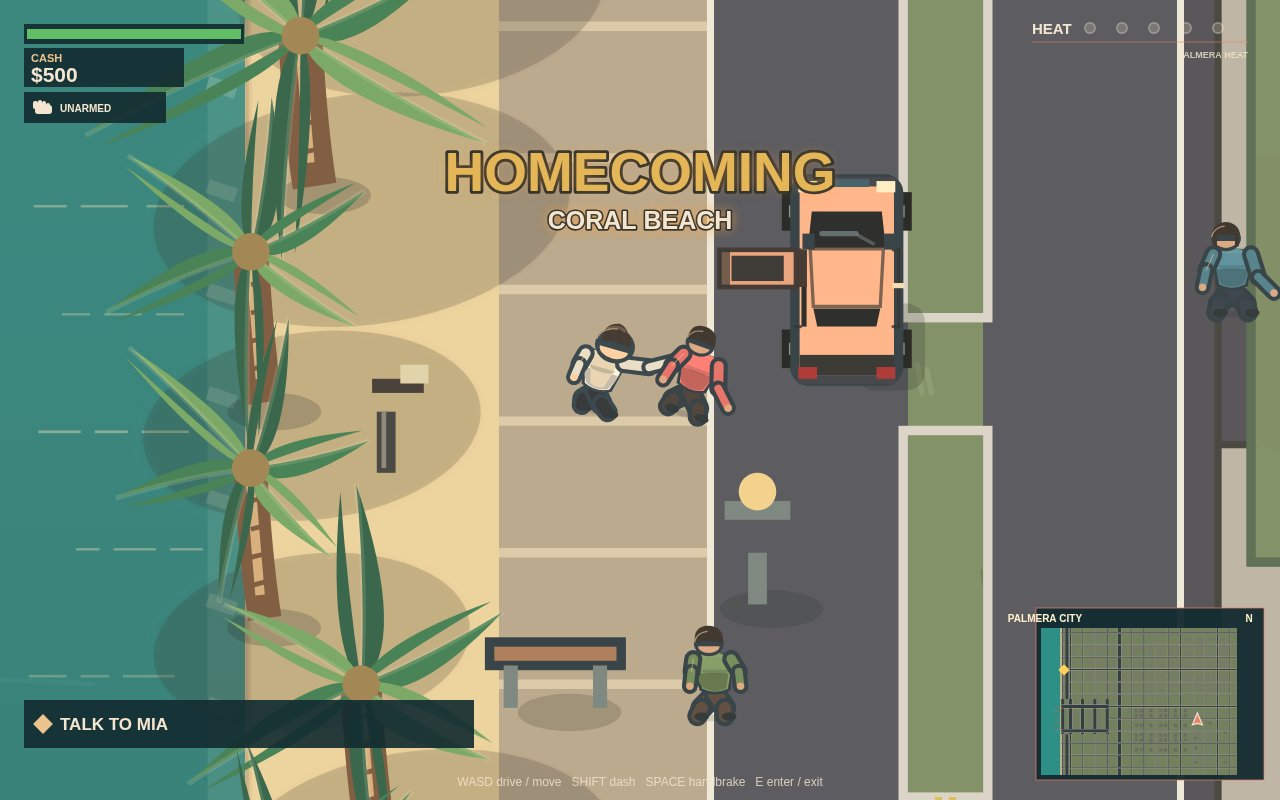
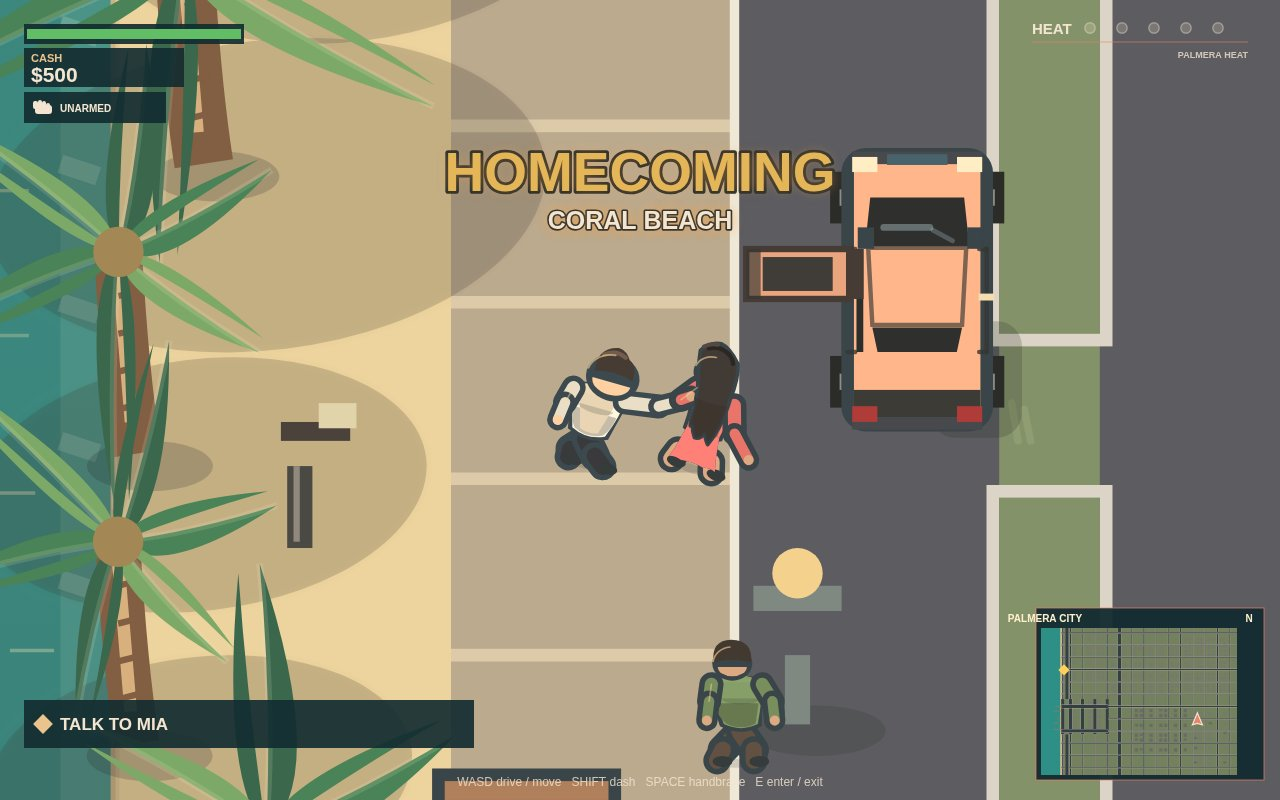
Rounds 144-150: homecoming zoom staging adopted; Mia redesigned (long hair, fem figure, dress, reaction pose, Danny-side trim); clone-leak fix; npc2 in frame; official screenshots updated

diff --git a/game/src/figures.js b/game/src/figures.js
@@ -17,22 +17,24 @@ export function drawFigure(c,o={}){
  const transform=p=>figureV2&&!hero?{x:p.x*bodyWidth,y:-2.2+(p.y+2.2)*bodyHeight}:p;
  const shoulder=(joints?.shoulder||shoulders).map(p=>transform(hero?{x:p.x*1.08,y:p.y}:p)),headPoint=transform(joints?.head||head),hipPoint=transform(joints?.hip||hip);
  const elbows=elbow.map(transform),hands=hand.map(transform),knees=knee.map(transform),drawFeet=feet?.map(transform);
+ if(o._femFigure){for(const p of shoulder)p.x=hipPoint.x+(p.x-hipPoint.x)*.82;for(const p of elbows)p.x=hipPoint.x+(p.x-hipPoint.x)*.88;for(const p of hands)p.x=hipPoint.x+(p.x-hipPoint.x)*.94;}
  if(UNIFIED_SHADOWS)drawGroundShadow(c,0,3,9.2,6,.23,.12);else{const shadowFeet=drawFeet||[0,1].map(i=>transform(shorten({x:knee[i].x+phase*.18,y:3}))),shadowX=(shadowFeet[0].x+shadowFeet[1].x)/2,shadowY=(shadowFeet[0].y+shadowFeet[1].y)/2;c.fillStyle='rgba(13,20,31,.15)';c.beginPath();c.ellipse(shadowX,shadowY+.5,2.5,.8,0,0,Math.PI*2);c.fill();}
  const limb=(a,b,w,color)=>{c.strokeStyle=outline;c.lineWidth=w+ART.outline.detail*2;c.beginPath();c.moveTo(a.x,a.y);c.lineTo(b.x,b.y);c.stroke();c.strokeStyle=color;c.lineWidth=w;c.beginPath();c.moveTo(a.x,a.y);c.lineTo(b.x,b.y);c.stroke();};
  // Rear legs sit beneath the torso; shoes are short and overlap toward the front edge.
- for(let i=0;i<2;i++){const foot=drawFeet?.[i]||transform(shorten({x:knee[i].x+phase*.18,y:3}));limb(hipPoint,knees[i],3.5,pants);limb(knees[i],foot,3,pants);c.fillStyle=figureV2?shade('#29363a',.82):'#29363a';c.beginPath();c.ellipse(foot.x+1,foot.y+.15,1.8,1,0,0,Math.PI*2);c.fill();}
+ for(let i=0;i<2;i++){const foot=drawFeet?.[i]||transform(shorten({x:knee[i].x+phase*.18,y:3}));if(!o._femFigure)limb(hipPoint,knees[i],3.5,pants);limb(knees[i],foot,3,o._femFigure?skin:pants);c.fillStyle=figureV2?shade('#29363a',.82):'#29363a';c.beginPath();c.ellipse(foot.x+1,foot.y+.15,1.8,1,0,0,Math.PI*2);c.fill();}
  c.fillStyle=outline;c.beginPath();c.moveTo(shoulder[0].x-1,-11.6);c.quadraticCurveTo(shoulder[0].x,-8,hipPoint.x-3.8,-3.1);c.quadraticCurveTo(hipPoint.x,-1.1,hipPoint.x+3.8,-3.1);c.quadraticCurveTo(shoulder[1].x,-8,shoulder[1].x+1,-11.6);c.quadraticCurveTo(0,-13.1,shoulder[0].x-1,-11.6);c.fill();
  c.fillStyle=shirt;c.beginPath();c.moveTo(shoulder[0].x,-11.2);c.quadraticCurveTo(shoulder[0].x+.5,-8,hipPoint.x-3.1,-3.5);c.quadraticCurveTo(hipPoint.x,-2,hipPoint.x+3.1,-3.5);c.quadraticCurveTo(shoulder[1].x,-8,shoulder[1].x,-11.2);c.quadraticCurveTo(0,-12.2,shoulder[0].x,-11.2);c.fill();
  if(figureV2){c.fillStyle=shade(shirtBase,.80);c.beginPath();c.moveTo(shoulder[0].x+.7,-7.3);c.lineTo(shoulder[1].x-.7,-7.3);c.quadraticCurveTo(shoulder[1].x-1,-5,hipPoint.x+2.7,-3.6);c.quadraticCurveTo(hipPoint.x,-2.2,hipPoint.x-2.7,-3.6);c.quadraticCurveTo(shoulder[0].x+1,-5,shoulder[0].x+.7,-7.3);c.fill();}
+ if(o._femFigure){c.beginPath();c.moveTo(hipPoint.x-3.1,-3.6);c.quadraticCurveTo(hipPoint.x-3.5,-1.2,hipPoint.x-3.9,.8);c.quadraticCurveTo(hipPoint.x-4.25,1.8,hipPoint.x-4.4,2.6);c.quadraticCurveTo(hipPoint.x-3.3,2.2,hipPoint.x-2.2,2.6);c.quadraticCurveTo(hipPoint.x,2.2,hipPoint.x+2.2,2.6);c.quadraticCurveTo(hipPoint.x+3.2,2.2,hipPoint.x+4.4,2.6);c.quadraticCurveTo(hipPoint.x+4.2,1.5,hipPoint.x+3.9,.8);c.quadraticCurveTo(hipPoint.x+3.5,-1.2,hipPoint.x+3.1,-3.6);c.closePath();c.fillStyle=outline;c.fill();c.beginPath();c.moveTo(hipPoint.x-3.1,-3.6);c.quadraticCurveTo(hipPoint.x-3.5,-1.2,hipPoint.x-3.9,.8);c.quadraticCurveTo(hipPoint.x-4.25,1.8,hipPoint.x-4.4,2.6);c.quadraticCurveTo(hipPoint.x-3.3,2.2,hipPoint.x-2.2,2.6);c.quadraticCurveTo(hipPoint.x,2.2,hipPoint.x+2.2,2.6);c.quadraticCurveTo(hipPoint.x+3.2,2.2,hipPoint.x+4.4,2.6);c.quadraticCurveTo(hipPoint.x+4.2,1.5,hipPoint.x+3.9,.8);c.quadraticCurveTo(hipPoint.x+3.5,-1.2,hipPoint.x+3.1,-3.6);c.closePath();c.fillStyle=shirt;c.fill();}
  if(hero){c.fillStyle=litHero?shade(o.inner||'#24292D',1.07):o.inner||'#24292D';c.beginPath();c.moveTo(shoulder[0].x+1.1,-11);c.lineTo(shoulder[1].x-1.1,-11);c.lineTo(hipPoint.x+1.7,-3.7);c.quadraticCurveTo(hipPoint.x,-3.1,hipPoint.x-1.7,-3.7);c.closePath();c.fill();}
  // Shoulder/back plane and restrained upper-chest plane create a top-down read.
- c.fillStyle=hero?(litHero?shade(o.inner||'#24292D',1.1):o.inner||'#24292D'):shirt;c.beginPath();c.ellipse((shoulder[0].x+shoulder[1].x)/2,-10.25,4.45,2.15,0,Math.PI,Math.PI*2);c.fill();if(LIGHTING){c.fillStyle='rgba(255,238,192,.08)';c.beginPath();c.ellipse((shoulder[0].x+shoulder[1].x)/2,-11.1,3.5,.85,0,Math.PI,Math.PI*2);c.fill();}c.fillStyle='rgba(20,35,38,.19)';c.beginPath();c.ellipse(hipPoint.x,-8.15,3.4,1.1,0,0,Math.PI);c.fill();
+ c.fillStyle=hero?(litHero?shade(o.inner||'#24292D',1.1):o.inner||'#24292D'):shirt;c.beginPath();c.ellipse((shoulder[0].x+shoulder[1].x)/2,-10.25,o._femFigure?4.45*.82:4.45,2.15,0,Math.PI,Math.PI*2);c.fill();if(LIGHTING){c.fillStyle='rgba(255,238,192,.08)';c.beginPath();c.ellipse((shoulder[0].x+shoulder[1].x)/2,-11.1,3.5,.85,0,Math.PI,Math.PI*2);c.fill();}c.fillStyle='rgba(20,35,38,.19)';c.beginPath();c.ellipse(hipPoint.x,-8.15,3.4,1.1,0,0,Math.PI);c.fill();
  const sleeve=figureV2?shade(shirtBase,.96):shirt;
  limb(shoulder[0],elbows[0],2.4,sleeve);limb(elbows[0],hands[0],1.9,sleeve);limb(shoulder[1],elbows[1],2.4,sleeve);limb(elbows[1],hands[1],1.9,sleeve);
  c.fillStyle=skin;c.beginPath();c.arc(hands[0].x,hands[0].y,.9,0,Math.PI*2);c.arc(hands[1].x,hands[1].y,.9,0,Math.PI*2);c.fill();
  // Broad crown is dominant. A slim skin crescent at the lower edge is the only facial cue.
  const hs=hero?1.35:1;c.fillStyle=outline;c.beginPath();c.ellipse(headPoint.x,headPoint.y,3.65*hs,3.15*hs,0,0,Math.PI*2);c.fill();c.fillStyle=skin;c.beginPath();c.ellipse(headPoint.x,headPoint.y+.65*hs,2.65*hs,1.7*hs,0,0,Math.PI);c.fill();
- c.fillStyle=hair;c.beginPath();if(hero){c.moveTo(headPoint.x-3.5,headPoint.y-.35);c.quadraticCurveTo(headPoint.x-4.2,headPoint.y-4.7,headPoint.x-.4,headPoint.y-5.5);c.quadraticCurveTo(headPoint.x+1.2,headPoint.y-5.4,headPoint.x+2.1,headPoint.y-3.9);c.quadraticCurveTo(headPoint.x+3.8,headPoint.y-3.2,headPoint.x+3.6,headPoint.y-.35);c.quadraticCurveTo(headPoint.x,headPoint.y-1.5,headPoint.x-3.5,headPoint.y-.35);c.fill();c.strokeStyle='#665044';c.lineWidth=.8;c.beginPath();c.moveTo(headPoint.x-2.7,headPoint.y-3.6);c.quadraticCurveTo(headPoint.x-.7,headPoint.y-5.15,headPoint.x+1.25,headPoint.y-4.15);c.stroke();}else if(figureV2){const variant=classHash%3;if(variant===0){c.moveTo(headPoint.x-3.4,headPoint.y-.2);c.quadraticCurveTo(headPoint.x-3.9,headPoint.y-4.2,headPoint.x-.2,headPoint.y-4.3);c.quadraticCurveTo(headPoint.x+3.8,headPoint.y-4.2,headPoint.x+3.4,headPoint.y-.2);c.quadraticCurveTo(headPoint.x,headPoint.y-1.1,headPoint.x-3.4,headPoint.y-.2);c.fill();}else if(variant===1){c.moveTo(headPoint.x-3.5,headPoint.y-.1);c.quadraticCurveTo(headPoint.x-4.2,headPoint.y-3.2,headPoint.x-1.8,headPoint.y-3.8);c.quadraticCurveTo(headPoint.x-.5,headPoint.y-5.1,headPoint.x+1.2,headPoint.y-3.7);c.quadraticCurveTo(headPoint.x+4,headPoint.y-3.4,headPoint.x+3.4,headPoint.y-.1);c.lineTo(headPoint.x+2.5,headPoint.y-.5);c.lineTo(headPoint.x+1.6,headPoint.y-.1);c.lineTo(headPoint.x+.5,headPoint.y-.7);c.lineTo(headPoint.x-.5,headPoint.y-.1);c.lineTo(headPoint.x-1.5,headPoint.y-.6);c.closePath();c.fill();}else{c.ellipse(headPoint.x,headPoint.y-.8,3.4,3.2,0,Math.PI,Math.PI*2);c.fill();c.fillRect(headPoint.x-3.1,headPoint.y-1.1,.9,3.1);c.fillRect(headPoint.x+2.2,headPoint.y-1.1,.9,3.1);}}else{c.ellipse(headPoint.x,headPoint.y-.65,3.3,2.65,0,Math.PI,Math.PI*2);c.fill();}if(!hero&&(o.hairStyle||'short')==='long'&&!figureV2){c.fillRect(headPoint.x-3.2,headPoint.y-.7,1.2,3.4);c.fillRect(headPoint.x+2,headPoint.y-.7,1.2,3.4);}
+ c.fillStyle=hair;c.beginPath();if(hero){c.moveTo(headPoint.x-3.5,headPoint.y-.35);c.quadraticCurveTo(headPoint.x-4.2,headPoint.y-4.7,headPoint.x-.4,headPoint.y-5.5);c.quadraticCurveTo(headPoint.x+1.2,headPoint.y-5.4,headPoint.x+2.1,headPoint.y-3.9);c.quadraticCurveTo(headPoint.x+3.8,headPoint.y-3.2,headPoint.x+3.6,headPoint.y-.35);c.quadraticCurveTo(headPoint.x,headPoint.y-1.5,headPoint.x-3.5,headPoint.y-.35);c.fill();c.strokeStyle='#665044';c.lineWidth=.8;c.beginPath();c.moveTo(headPoint.x-2.7,headPoint.y-3.6);c.quadraticCurveTo(headPoint.x-.7,headPoint.y-5.15,headPoint.x+1.25,headPoint.y-4.15);c.stroke();}else if(o._hairLong3){const hx=headPoint.x,hy=headPoint.y;c.beginPath();c.moveTo(hx-1.85,hy+3.2);c.quadraticCurveTo(hx-3.15,hy-.8,hx-3.6,hy-3.2);c.quadraticCurveTo(hx-2.5,hy-5.25,hx-.45,hy-5.6);c.quadraticCurveTo(hx+1.2,hy-5.5,hx+3.65,hy-3.15);c.quadraticCurveTo(hx+4.65,hy-.7,hx+4.45,hy+3.3);c.quadraticCurveTo(hx+4.65,hy+6.2,hx+4.2,hy+9.1);c.quadraticCurveTo(hx+4.05,hy+10.7,hx+3.35,hy+12.5);c.quadraticCurveTo(hx+2.7,hy+11.9,hx+2.15,hy+10.7);c.quadraticCurveTo(hx+1.65,hy+12.2,hx+.65,hy+12.1);c.quadraticCurveTo(hx-.1,hy+11.1,hx-.45,hy+10.1);c.quadraticCurveTo(hx-.8,hy+10.9,hx-1.05,hy+9.2);c.quadraticCurveTo(hx-1.15,hy+7.4,hx-1.15,hy+6.8);c.quadraticCurveTo(hx-1.35,hy+5.9,hx-1.85,hy+3.2);c.closePath();c.fillStyle=hairBase;c.fill();c.strokeStyle=outline;c.lineWidth=.7;c.stroke();c.beginPath();c.moveTo(hx-1.8,hy+5);c.quadraticCurveTo(hx-.1,hy+5.7,hx+4.4,hy+4.8);c.quadraticCurveTo(hx+4.55,hy+7.2,hx+4.2,hy+9.1);c.quadraticCurveTo(hx+4.05,hy+10.7,hx+3.35,hy+12.5);c.quadraticCurveTo(hx+2.7,hy+11.9,hx+2.15,hy+10.7);c.quadraticCurveTo(hx+1.65,hy+12.2,hx+.65,hy+12.1);c.quadraticCurveTo(hx-.1,hy+11.1,hx-.45,hy+10.1);c.quadraticCurveTo(hx-.8,hy+10.9,hx-1.05,hy+9.2);c.quadraticCurveTo(hx-1.15,hy+7.4,hx-1.15,hy+6.8);c.quadraticCurveTo(hx-1.35,hy+5.9,hx-1.8,hy+5);c.closePath();c.fillStyle=shade(hairBase,.78);c.globalAlpha=.5;c.fill();c.globalAlpha=1;c.strokeStyle=shade(hairBase,.5);c.lineWidth=.8;c.beginPath();c.moveTo(hx-2.3,hy-4.1);c.quadraticCurveTo(hx-.3,hy-5.35,hx+1.8,hy-4.1);c.quadraticCurveTo(hx+2.5,hy-3.65,hx+2.8,hy-2.9);c.stroke();c.strokeStyle=shade(hairBase,1.45);c.lineWidth=.7;c.beginPath();c.moveTo(hx-3.3,hy-4.1);c.quadraticCurveTo(hx-2.1,hy-5.15,hx-.9,hy-5.25);c.stroke();}else if(o._hairLong2){const hx=headPoint.x,hy=headPoint.y;c.beginPath();c.moveTo(hx-4.5,hy+3.4);c.quadraticCurveTo(hx-5.1,hy-.8,hx-3.7,hy-3.2);c.quadraticCurveTo(hx,hy-5.6,hx+3.7,hy-3.2);c.quadraticCurveTo(hx+5.1,hy-.8,hx+4.5,hy+3.4);c.quadraticCurveTo(hx+2.4,hy+4.6,hx+.6,hy+4.05);c.quadraticCurveTo(hx-1.2,hy+4.75,hx-4.5,hy+3.4);c.closePath();c.fillStyle=hairBase;c.fill();c.strokeStyle=outline;c.lineWidth=.7;c.stroke();c.beginPath();c.moveTo(hx-4.42,hy+1.9);c.quadraticCurveTo(hx,hy+3.1,hx+4.42,hy+1.9);c.lineTo(hx+4.5,hy+3.4);c.quadraticCurveTo(hx+2.4,hy+4.6,hx+.6,hy+4.05);c.quadraticCurveTo(hx-1.2,hy+4.75,hx-4.5,hy+3.4);c.closePath();c.fillStyle=shade(hairBase,.78);c.globalAlpha=.5;c.fill();c.globalAlpha=1;}else if(figureV2){const variant=classHash%3;if(variant===0){c.moveTo(headPoint.x-3.4,headPoint.y-.2);c.quadraticCurveTo(headPoint.x-3.9,headPoint.y-4.2,headPoint.x-.2,headPoint.y-4.3);c.quadraticCurveTo(headPoint.x+3.8,headPoint.y-4.2,headPoint.x+3.4,headPoint.y-.2);c.quadraticCurveTo(headPoint.x,headPoint.y-1.1,headPoint.x-3.4,headPoint.y-.2);c.fill();}else if(variant===1){c.moveTo(headPoint.x-3.5,headPoint.y-.1);c.quadraticCurveTo(headPoint.x-4.2,headPoint.y-3.2,headPoint.x-1.8,headPoint.y-3.8);c.quadraticCurveTo(headPoint.x-.5,headPoint.y-5.1,headPoint.x+1.2,headPoint.y-3.7);c.quadraticCurveTo(headPoint.x+4,headPoint.y-3.4,headPoint.x+3.4,headPoint.y-.1);c.lineTo(headPoint.x+2.5,headPoint.y-.5);c.lineTo(headPoint.x+1.6,headPoint.y-.1);c.lineTo(headPoint.x+.5,headPoint.y-.7);c.lineTo(headPoint.x-.5,headPoint.y-.1);c.lineTo(headPoint.x-1.5,headPoint.y-.6);c.closePath();c.fill();}else{c.ellipse(headPoint.x,headPoint.y-.8,3.4,3.2,0,Math.PI,Math.PI*2);c.fill();c.fillRect(headPoint.x-3.1,headPoint.y-1.1,.9,3.1);c.fillRect(headPoint.x+2.2,headPoint.y-1.1,.9,3.1);}}else{c.ellipse(headPoint.x,headPoint.y-.65,3.3,2.65,0,Math.PI,Math.PI*2);c.fill();}if(!hero&&(o.hairStyle||'short')==='long'&&!figureV2){c.fillRect(headPoint.x-3.2,headPoint.y-.7,1.2,3.4);c.fillRect(headPoint.x+2,headPoint.y-.7,1.2,3.4);}
  if(o.rim){c.strokeStyle='rgba(255,215,150,.60)';c.lineWidth=.3;c.beginPath();c.ellipse(headPoint.x,headPoint.y,3.65*hs-.15,3.15*hs-.15,0,Math.PI*1.04,Math.PI*1.46);c.stroke();c.strokeStyle='rgba(255,215,150,.45)';c.lineWidth=.3;c.beginPath();c.moveTo(shoulder[0].x,shoulder[0].y);c.lineTo(elbows[0].x,elbows[0].y);c.stroke();}
  c.restore();
 }

diff --git a/game/src/shots.js b/game/src/shots.js
@@ -4,7 +4,7 @@ import {Vehicle,VEHICLE_TYPES} from './vehicles.js';
 
 export const ShotDirector=class ShotDirector{
   stageShot(name,game){
-  game.camera._homecomingWestClamp=0;const params=new URLSearchParams(location.search),seed=Number(params.get('seed')||1),variant=params.get('variant')||'',cover5=params.get('cover5')==='1'||(!params.has('cover2')&&!params.has('cover3')&&!params.has('cover4')&&!params.has('cover5')),cover2=params.get('cover2')==='1'&&!cover5,cover4=params.get('cover4')==='1',cover3=!cover2&&(cover4||params.get('cover3')!=='0');game.rng=new SeededRandom(seed);game.world=new World(game.rng);const w=game.world;w._stagedShot=true;w._fxLegacy=params.get('fx')==='0';game.screen='play';const dress=(cars,people)=>{for(const [x,y,type,color,a] of cars){const q=new Vehicle(x,y,type,color,a);q.driver='traffic';q.speed=45;w.vehicles.push(q);w.traffic.cars.push(q);}for(const [x,y] of people){const p=w.pedestrians.people[w.pedestrians.people.length-1];const q={...p,x,y,vx:0,vy:0,angle:0,timer:0,run:false};w.pedestrians.people.push(q);}};
+  game.camera._homecomingWestClamp=0;const params=new URLSearchParams(location.search),seed=Number(params.get('seed')||1),variant=params.get('variant')||'',cover5=params.get('cover5')==='1'||(!params.has('cover2')&&!params.has('cover3')&&!params.has('cover4')&&!params.has('cover5')),cover2=params.get('cover2')==='1'&&!cover5,cover4=params.get('cover4')==='1',cover3=!cover2&&(cover4||params.get('cover3')!=='0'),homecoming2=params.get('homecoming2')==='1',hair2=params.get('hair2')==='1',hair3=params.get('hair3')==='1';game.rng=new SeededRandom(seed);game.world=new World(game.rng);const w=game.world;w._stagedShot=true;w._fxLegacy=params.get('fx')==='0';game.screen='play';const dress=(cars,people)=>{for(const [x,y,type,color,a] of cars){const q=new Vehicle(x,y,type,color,a);q.driver='traffic';q.speed=45;w.vehicles.push(q);w.traffic.cars.push(q);}for(const [x,y] of people){const p=w.pedestrians.people[w.pedestrians.people.length-1];const q={...p,x,y,vx:0,vy:0,angle:0,timer:0,run:false};w.pedestrians.people.push(q);}};
   if(name==='title'){game.screen='title';game.camera.x=535;game.camera.y=950;game.time=8;return false;}
   if(name==='map'){w._showMap=true;w.objective={x:820,y:950,label:'MISSION: MEET MIA'};game.camera.x=535;game.camera.y=950;return true;}
   if(name==='styletest'){
@@ -133,21 +133,28 @@ export const ShotDirector=class ShotDirector{
    // Park at the beach boulevard kerb; the reunion stands west of the car on the promenade.
    const car=new Vehicle(598,1000,'sedan','#e8a078',0);car.speed=0;car.driver='player';car._doorOpen=true;
    const doorAnchor=car.getDriverDoorWorldPosition();
-   const miaAt={x:564,y:doorAnchor.y+28},dannyAt={x:544,y:doorAnchor.y+28};
+   const homeZoom=6.3;
+   const miaAt={x:563,y:doorAnchor.y+28},dannyAt={x:545,y:doorAnchor.y+28};
    // ITEM 4 — lower Danny's contacting hand onto Mia's shoulder and lean Mia
    // slightly toward him; their world positions and 25.2px silhouette gap stay fixed.
    const danny={...pedestrianTemplate,x:dannyAt.x,y:dannyAt.y,vx:0,vy:0,angle:.28,timer:0,run:false,hero:true,color:'#F3E8D2',inner:'#D8C7A7',skin:'#e8bd91',pants:'#30343B',hair:'#302923',_shotScale:1,_homecomingPose:true,pose:'idle',joints:{head:{x:1.5,y:-14.2},shoulder:[{x:-4.5,y:-10.5},{x:4.5,y:-10.5}],hip:{x:0,y:-2.2},elbow:[{x:-5.6,y:-7.5},{x:11,y:-11.5}],hand:[{x:-6,y:-4.1},{x:17,y:-15}],knee:[{x:-2.3,y:1.1},{x:2.3,y:1.1}],foot:[{x:-2.3,y:3},{x:4.2,y:3}]}};
    const mia={...pedestrianTemplate,x:miaAt.x,y:miaAt.y,vx:0,vy:0,angle:.34,timer:0,run:false,color:'#F06F67',pants:'#51443E',hairStyle:'long',_shotScale:1,_homecomingPose:true,pose:'idle',joints:{head:{x:-1.5,y:-14.2},shoulder:[{x:-4.5,y:-10.5},{x:4.5,y:-10.5}],hip:{x:0,y:-2.2},elbow:[{x:-6.2,y:-6.8},{x:6.2,y:-5.2}],hand:[{x:-7.1,y:-2.8},{x:10,y:-1.5}],knee:[{x:-3.2,y:1.1},{x:3.2,y:1.1}],foot:[{x:-3.8,y:3},{x:3.8,y:3}]}};
+   if(hair2)mia._hairLong2=true;
+   mia._hairLong3=true;mia._femFigure=true;
+   const miaBaseJoints=mia.joints;
+   mia.joints={head:{x:-1.8,y:-14.3},shoulder:[{x:-4.5,y:-10.9},{x:4.5,y:-10.1}],hip:{x:0,y:-2.2},elbow:[{x:-6.5,y:-7.8},{x:6.2,y:-5.2}],hand:[{x:-4.5,y:-9},{x:10,y:-1.5}],knee:[{x:-3.2,y:1.1},{x:3.2,y:1.1}],foot:[{x:-3.8,y:3},{x:3.8,y:3}]};
    w.player._homecomingHidden=true;w.pedestrians.people=[danny,mia];w.vehicles.push(car);
    // Two quiet passersby add life while leaving a clear pocket around the reunion.
-   dress([],[[680,1004],[570,1090]]);const npc1=w.pedestrians.people[2],npc2=w.pedestrians.people[3];Object.assign(npc1,{color:'#4b8290',skin:'#dca77f',pants:'#394653',pose:'walk',angle:0,vx:14,vy:0});
+   dress([],[[680,1004],[570,1072]]);const npc1=w.pedestrians.people[2],npc2=w.pedestrians.people[3];
+   delete npc1._hairLong2;delete npc2._hairLong2;delete npc1._hairLong3;delete npc1._femFigure;delete npc2._hairLong3;delete npc2._femFigure;npc1.joints=miaBaseJoints;
+   Object.assign(npc1,{color:'#4b8290',skin:'#dca77f',pants:'#394653',pose:'walk',angle:0,vx:14,vy:0});
    // ITEM 2 — keep the sea-facing green passerby upright, facing west toward
    // the water, with relaxed arms and a grounded idle pose.
    Object.assign(npc2,{color:'#718d58',skin:'#efc8a2',pants:'#665342',pose:'idle',angle:0,run:false,vx:0,vy:0,joints:{head:{x:-1.5,y:-14.2},shoulder:[{x:-5.2,y:-10.5},{x:3.8,y:-10.5}],hip:{x:0,y:-2.2},elbow:[{x:-5.6,y:-7.5},{x:5.6,y:-7.5}],hand:[{x:-6,y:-4.1},{x:6,y:-4.1}],knee:[{x:-3.2,y:1.1},{x:2.3,y:1.1}],foot:[{x:-4.2,y:3},{x:2.3,y:3}]}});
    w.city.streetProps=w.city.streetProps.filter(q=>q.x<400||q.x>720||q.y<900||q.y>1160);w.city.streetProps.push({x:536,y:1090,kind:'bench',angle:0},{x:579,y:1068,kind:'lamp'});
-   w.objective={x:mia.x,y:mia.y,label:'TALK TO MIA'};w._shotObjectiveBanner='TALK TO MIA';w._homecomingShotMarkerSuppressed=true;w._homecomingScene=true;w._homecomingAnchors={car:{x:car.x,y:car.y,heading:car.angle},door:doorAnchor,danny:dannyAt,mia:miaAt,silhouetteGapWorld:Math.max(0,Math.hypot(dannyAt.x-miaAt.x,dannyAt.y-miaAt.y)-14),zoom:4.7};
+   w.objective={x:mia.x,y:mia.y,label:'TALK TO MIA'};w._shotObjectiveBanner='TALK TO MIA';w._homecomingShotMarkerSuppressed=true;w._homecomingScene=true;w._homecomingAnchors={car:{x:car.x,y:car.y,heading:car.angle},door:doorAnchor,danny:dannyAt,mia:miaAt,silhouetteGapWorld:Math.max(0,Math.hypot(dannyAt.x-miaAt.x,dannyAt.y-miaAt.y)-14),zoom:homeZoom};
    w.heat=0;w.wanted.heat=0;w.pinCallout('HOMECOMING','CORAL BEACH',{y:176});
-   w._shotHudMode='unarmed';game.camera.x=(dannyAt.x+miaAt.x)/2;game.camera.y=dannyAt.y;game.camera.zoom=4.7;
+   w._shotHudMode='unarmed';game.camera.x=(dannyAt.x+miaAt.x)/2;game.camera.y=dannyAt.y-8;game.camera.zoom=homeZoom;
   }
   else if(name==='getaway'){
    w.setTimeOfDay('night');w._shotHudMode='driving';w._getawayCargoShift=true;w.vehicles=[];w.traffic.cars=[];w.pedestrians.people=[];

diff --git a/game/src/pedestrians.js b/game/src/pedestrians.js
@@ -3,7 +3,7 @@ export class PedestrianCrowd {
  constructor(world){this.world=world;this.people=[];for(let i=0;i<26;i++)this.spawn();}
  spawn(){const w=this.world,r=w.rng.pick(w.city.roads),vertical=r.x1===r.x2,x=vertical?r.x1+(w.rng.chance(.5)?1:-1)*(r.width/2+13):w.rng.range(520,4700),y=vertical?w.rng.range(30,3500):r.y1+(w.rng.chance(.5)?1:-1)*(r.width/2+13),color=w.rng.pick(['#d98c64','#ebc56f','#60969a','#b76d63','#e6d7b7','#526f8d','#83a65d','#bd7650']),skin=w.rng.pick(['#dbad83','#efc59c','#a86f50','#c68d69','#f0d1ad']),pants=w.rng.pick(['#35434f','#4d4942','#303e51','#6a5548']);if(w.city.isWater(x,y)||w.city.collidesBuilding(x,y,4)){this.people.push({x:535,y:800,vx:0,vy:0,color,skin,pants,timer:0});return;}this.people.push({x,y,vx:0,vy:0,color,skin,pants,timer:0,angle:0});}
  update(dt){const w=this.world,player=w.driving||w.player;for(const p of this.people){p.timer=Math.max(0,p.timer-dt);const dx=p.x-player.x,dy=p.y-player.y,d=Math.hypot(dx,dy);const fast=!!w.driving&&Math.abs(w.driving.speed)>115&&d<150;if((d<220&&(fast||w._gunfire))){p.timer=1.4;p.run=true;}if(p.cower>0){p.cower-=dt;continue;}if(p.timer>0){const m=d||1;p.vx=dx/m*95;p.vy=dy/m*95;}else{p.run=false;if(!p.dir||w.rng.chance(.003)){p.dir=w.rng.pick([-1,1]);p.cross=w.rng.chance(.12);}p.vx=p.cross?Math.cos(p.angle||0)*30:p.dir*24;p.vy=p.cross?Math.sin(p.angle||0)*30:0;}let x=p.x+p.vx*dt,y=p.y+p.vy*dt;if(w.city.isLand(x,y)&&!w.city.collidesBuilding(x,y,4)){p.x=x;p.y=y;}else p.dir*=-1;p.angle=Math.atan2(p.vx,-p.vy);}}
- draw(c){for(const p of this.people){const walking=p.run||Math.abs(p.vx||0)+Math.abs(p.vy||0)>12,phase=p.phase??(walking?Math.sin(this.world.time*10+p.x*.07)*2.5:0);c.save();c.translate(p.x,p.y);c.rotate(p._marinaReaction||p._homecomingPose?(p.angle||0):(p._recoil?-.32:p._coverOwnerStagger?0:0));const coverJoints=p._coverOwnerStagger?{head:{x:-1.2,y:-15.6},shoulder:[{x:-4.6,y:-10.6},{x:4.4,y:-10.2}],hip:{x:-0.3,y:-2.0},elbow:[{x:-8.8,y:-9.6},{x:7.4,y:-4.6}],hand:[{x:-11.6,y:-13.8},{x:9.5,y:0.5}],knee:[{x:-4.6,y:0.6},{x:3.4,y:1.6}],foot:[{x:-7.6,y:0.2},{x:4.8,y:4.6}]}:undefined;drawFigure(c,{hero:p.hero,torso:p.color,inner:p.inner,skin:p.skin,pants:p.pants,hair:p.hair||hashHair(p),hairStyle:p.hairStyle||hashStyle(p),phase,pose:p.pose||(p._coverOwnerStagger?'stumble':p.run?'run':walking?'walk':p._alarmed?'stumble':'idle'),joints:p.joints||coverJoints,rim:p._homecomingPose===true});c.restore();}}
+ draw(c){for(const p of this.people){const walking=p.run||Math.abs(p.vx||0)+Math.abs(p.vy||0)>12,phase=p.phase??(walking?Math.sin(this.world.time*10+p.x*.07)*2.5:0);c.save();c.translate(p.x,p.y);c.rotate(p._marinaReaction||p._homecomingPose?(p.angle||0):(p._recoil?-.32:p._coverOwnerStagger?0:0));const coverJoints=p._coverOwnerStagger?{head:{x:-1.2,y:-15.6},shoulder:[{x:-4.6,y:-10.6},{x:4.4,y:-10.2}],hip:{x:-0.3,y:-2.0},elbow:[{x:-8.8,y:-9.6},{x:7.4,y:-4.6}],hand:[{x:-11.6,y:-13.8},{x:9.5,y:0.5}],knee:[{x:-4.6,y:0.6},{x:3.4,y:1.6}],foot:[{x:-7.6,y:0.2},{x:4.8,y:4.6}]}:undefined;drawFigure(c,{hero:p.hero,torso:p.color,inner:p.inner,skin:p.skin,pants:p.pants,hair:p.hair||hashHair(p),hairStyle:p.hairStyle||hashStyle(p),phase,pose:p.pose||(p._coverOwnerStagger?'stumble':p.run?'run':walking?'walk':p._alarmed?'stumble':'idle'),joints:p.joints||coverJoints,rim:p._homecomingPose===true,_hairLong2:p._hairLong2,_hairLong3:p._hairLong3,_femFigure:p._femFigure});c.restore();}}
 }
 function hashValue(p){let h=2166136261,s=`${Math.round(p.x||0)}:${Math.round(p.y||0)}:${p.color||''}`;for(let i=0;i<s.length;i++)h=Math.imul(h^s.charCodeAt(i),16777619);return h>>>0;}
 function hashHair(p){return ['#392b25','#554033','#302a27','#665046','#453b35'][hashValue(p)%5];}

diff --git a/tools/silhouette_gate.html b/tools/silhouette_gate.html
@@ -1,0 +1,19 @@
+<!doctype html><meta charset="utf-8"><title>PALMERA HEAT silhouette gate</title>
+<canvas id="c" width="100" height="72" style="width:800px;height:576px;image-rendering:pixelated"></canvas>
+<script type="module">
+import {SeededRandom} from '../game/src/random.js';
+import {ShotDirector} from '../game/src/shots.js';
+import {drawFigure} from '../game/src/figures.js';
+function hashValue(p){let h=2166136261,s=`${Math.round(p.x||0)}:${Math.round(p.y||0)}:${p.color||''}`;for(let i=0;i<s.length;i++)h=Math.imul(h^s.charCodeAt(i),16777619);return h>>>0;}
+function hashHair(p){return ['#392b25','#554033','#302a27','#665046','#453b35'][hashValue(p)%5];}
+function hashStyle(p){return ['short','cap','bun','long','short','short','bald','long'][hashValue(p)>>>3&7];}
+const game={camera:{x:0,y:0,zoom:1},screen:'play',rng:null};
+new ShotDirector().stageShot('homecoming',game);
+const [danny,mia]=game.world.pedestrians.people, canvas=document.querySelector('#c'),ctx=canvas.getContext('2d');
+const s=Number(new URLSearchParams(location.search).get('ss')||1.2);ctx.fillStyle='white';ctx.fillRect(0,0,canvas.width,canvas.height);
+function draw(p,x){ctx.save();ctx.translate(x,36);ctx.scale(s,s);ctx.rotate(p.angle||0);drawFigure(ctx,{hero:p.hero,torso:p.color,inner:p.inner,skin:p.skin,pants:p.pants,hair:p.hair||hashHair(p),hairStyle:p.hairStyle||hashStyle(p),phase:0,pose:p.pose,joints:p.joints,rim:true,_hairLong2:p._hairLong2,_hairLong3:p._hairLong3,_femFigure:p._femFigure});ctx.restore();}
+draw(danny,36);draw(mia,36+(mia.x-danny.x)*s);
+const im=ctx.getImageData(0,0,canvas.width,canvas.height),data=im.data;let xs=[1e9,1e9],ys=[1e9,1e9],xe=[-1,-1],ye=[-1,-1];
+for(let i=0;i<data.length;i+=4){const x=(i/4)%canvas.width,y=Math.floor(i/4/canvas.width);if(data[i]<245||data[i+1]<245||data[i+2]<245){data[i]=data[i+1]=data[i+2]=0;const j=x<36+9*s?0:1;xs[j]=Math.min(xs[j],x);xe[j]=Math.max(xe[j],x);ys[j]=Math.min(ys[j],y);ye[j]=Math.max(ye[j],y);}}
+ctx.putImageData(im,0,0);window.__silHeights={danny:ye[0]-ys[0]+1,mia:ye[1]-ys[1]+1};window.__silDone=true;
+</script>
